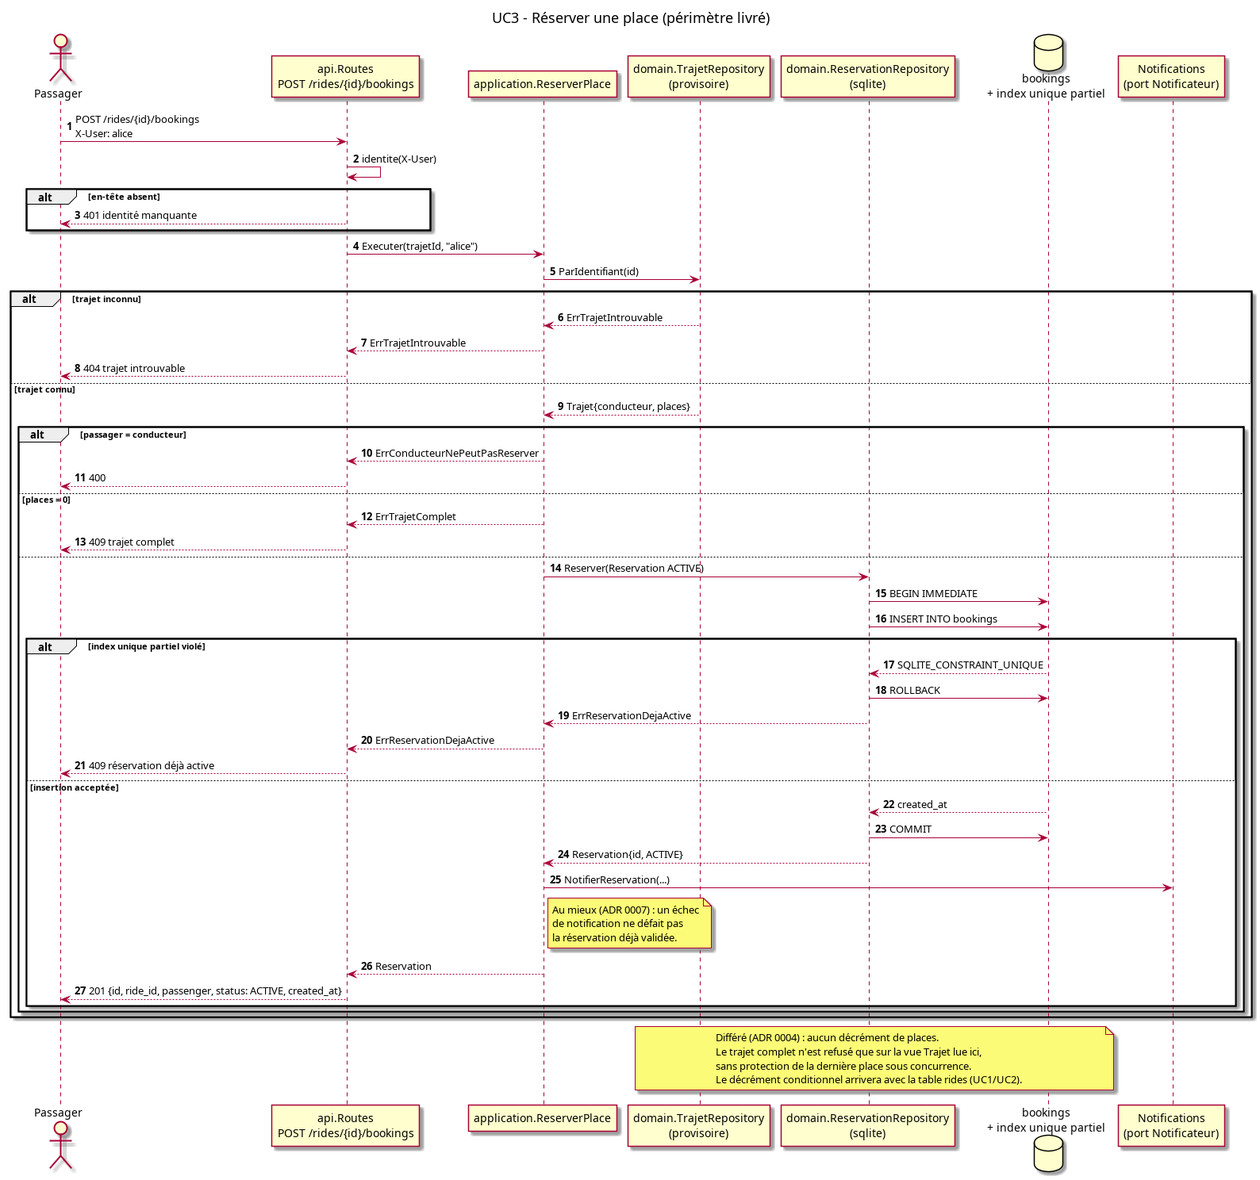
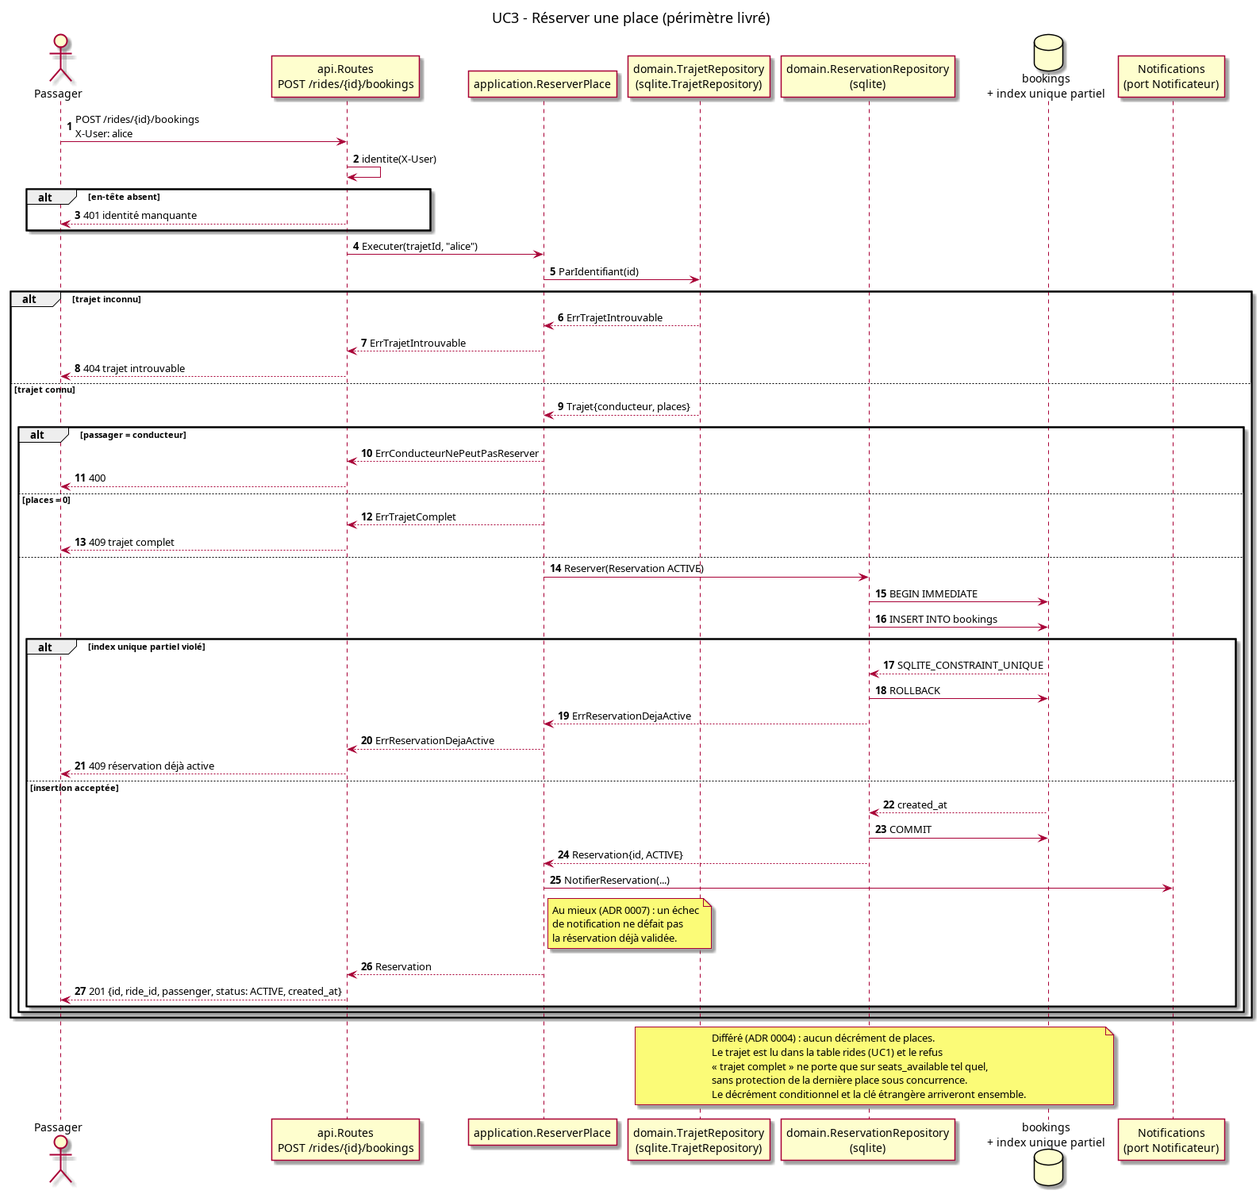
docs(uc1): UC1 livré, place du décrément toujours différée
architecture.md : périmètre, couches, chaînes nominales, ports (TrajetRepository
réel, Horloge), route POST /rides avec sa forme de réponse exacte, table rides,
stratégie de tests, correspondance UC, dette. ADR 0004 : statut et différé
réécrits puisque rides existe. Diagrammes : composants complétés, note de
séquence UC3 mise à jour. README : état des UC.

diff --git a/docs/architecture.md b/docs/architecture.md
@@ -2,13 +2,14 @@
 
 Document d'architecture du système décrit dans [vision.md](vision.md) et [use-case-elaboration.md](use-case-elaboration.md).
 Il décrit uniquement le service Go : l'implémentation Python de UC3 a été retirée du dépôt et n'est plus une
-référence. Seul UC8 (gérer son profil) est implémenté, et les décisions structurantes sont tracées en ADR (§16).
+référence. Trois cas d'utilisation sont implémentés : UC1 (publier un trajet), UC8 (gérer son profil) et UC3 (réserver
+une place), ce dernier sans décrément de places (§15). Les décisions structurantes sont tracées en ADR (§16).
 
 ## 1. Périmètre et objectifs
 
-- **Périmètre fonctionnel :** les 12 cas d'utilisation de la vision. Deux sont livrés : UC8 (gérer son profil) et UC3
-  (réserver une place) dans un périmètre réduit — les réservations sont écrites, mais le compteur de places appartient
-  encore à UC1/UC2 (§15).
+- **Périmètre fonctionnel :** les 12 cas d'utilisation de la vision. Trois sont livrés : UC8 (gérer son profil), UC1
+  (publier un trajet) et UC3 (réserver une place). UC3 reste dans un périmètre réduit : les réservations sont écrites,
+  mais le décrément des places n'existe pas encore (§15).
 - **Objectifs d'architecture :**
   1. isoler les règles métier du transport (HTTP) et de la persistance (SQLite) ;
   2. garder le risque technique du projet — la réservation concurrente — isolé à un seul endroit : l'unicité des
@@ -64,9 +65,9 @@ Dépendances strictement orientées vers l'intérieur : `api` → `application` 
 
 | Couche | Paquet | Responsabilité | Ne connaît pas |
 |---|---|---|---|
-| Domaine | `internal/domain` | entité `Profil`, type `Sexe`, bornes et invariants (`Profil.Valider`), erreurs sentinelles, **déclaration du port** `ProfilRepository` | `net/http`, `database/sql` |
-| Application | `internal/application` | cas d'utilisation UC8 `GererProfil` (`Consulter`, `Enregistrer`), `SaisieProfil`, port secondaire `NormaliseurPhoto` | HTTP, SQL |
-| Infrastructure | `internal/infrastructure/sqlite`, `internal/infrastructure/photos` | adaptateur du port de persistance (schéma, transactions, horodatages) et pipeline d'image | HTTP |
+| Domaine | `internal/domain` | entités `Profil`, `Trajet`, `Reservation`, types énumérés, invariants (`Profil.Valider`, `Trajet.ValiderPublication`, `Reservation.Valider`), erreurs sentinelles, **déclaration des ports** | `net/http`, `database/sql` |
+| Application | `internal/application` | cas d'utilisation UC8 `GererProfil`, UC1 `PublierTrajet`, UC3 `ReserverPlace`, saisies d'entrée, ports secondaires `NormaliseurPhoto`, `Notificateur`, `Horloge` | HTTP, SQL |
+| Infrastructure | `internal/infrastructure/sqlite`, `internal/infrastructure/photos`, `internal/infrastructure/notifications` | adaptateurs des ports (schéma, transactions, horodatages), pipeline d'image, journal de notification | HTTP |
 | Interface | `internal/api` | routage, extraction de l'identité, décodage JSON, correspondance erreur → code HTTP | SQL, règles métier |
 | Composition | `cmd/wasalni/main.go` | racine de composition : ouvre la base, câble le cas d'utilisation et le normaliseur, sert HTTP, arrête proprement | — |
 
@@ -90,10 +91,13 @@ Source : [uml/architecture-components.puml](uml/architecture-components.puml).
 Chaîne nominale d'UC8 : `Routes` (`internal/api`) → `GererProfil` (`internal/application`) → port `ProfilRepository`
 → `sqlite.ProfilRepository` → table `users`. La photo traverse `NormaliseurPhoto` → `photos.Normaliser`.
 
-Chaîne nominale d'UC3 : `Routes` → `ReserverPlace` → port `TrajetRepository` (lecture de la vue `Trajet`) puis port
+Chaîne nominale d'UC1 : `Routes` → `PublierTrajet` → port `TrajetRepository` → `sqlite.TrajetRepository` → table
+`rides`. L'heure courante vient du port `Horloge`, la racine de composition fournissant `horlogeReelle`.
+
+Chaîne nominale d'UC3 : `Routes` → `ReserverPlace` → port `TrajetRepository` (lecture du trajet) puis port
 `ReservationRepository` → `sqlite.ReservationRepository` → table `bookings`, sous l'index unique partiel ; enfin le port
-`Notificateur` → `notifications.Journal`. La racine de composition fournit un adaptateur de trajets **provisoire**, qui
-répond `trajet introuvable` pour tout identifiant et l'annonce au démarrage : la table `rides` n'existe pas encore.
+`Notificateur` → `notifications.Journal`. Les deux cas d'utilisation partagent le même entrepôt de trajets, câblé une
+seule fois dans `cmd/wasalni/main.go`.
 
 Identité : `Routes` → `identite` (`internal/api/identite.go`), qui lit `X-User` et rend `ErrIdentiteManquante` si
 l'en-tête est absent (ADR 0002).
@@ -104,7 +108,8 @@ l'en-tête est absent (ADR 0002).
 |---|---|---|---|
 | `domain.ProfilRepository` | `internal/domain/ports.go` | `Enregistrer(ctx, Profil) (Profil, bool, error)` (le booléen vaut vrai à la création), `ParIdentifiant(ctx, identifiant) (Profil, error)` | `internal/infrastructure/sqlite/profil_repository.go` |
 | `application.NormaliseurPhoto` | `internal/application/gerer_profil.go` | `Normaliser(photoBase64 string) (string, error)` | `internal/infrastructure/photos/pipeline.go` (`Normaliser`), adapté par `normaliseurPhoto` dans `cmd/wasalni/main.go` |
-| `domain.TrajetRepository` | `internal/domain/ports.go` | `ParIdentifiant(ctx, identifiant) (Trajet, error)` | provisoire : `trajetsProvisoires` dans `cmd/wasalni/main.go` (rend `ErrTrajetIntrouvable`) ; la vraie lecture arrive avec UC1/UC2 |
+| `domain.TrajetRepository` | `internal/domain/ports.go` | `Publier(ctx, Trajet) (Trajet, error)` rend le trajet créé, identifiant compris ; `ParIdentifiant(ctx, identifiant) (Trajet, error)` échoue avec `ErrTrajetIntrouvable` | `internal/infrastructure/sqlite/trajet_repository.go` |
+| `application.Horloge` | `internal/application/publier_trajet.go` | `Maintenant() time.Time`, pour que les règles temporelles de UC1 soient testables | `horlogeReelle` dans `cmd/wasalni/main.go` |
 | `domain.ReservationRepository` | `internal/domain/ports.go` | `Reserver(ctx, Reservation) (Reservation, error)` ; échoue avec `ErrReservationDejaActive` si une réservation `ACTIVE` existe pour le couple (trajet, passager). `ParPassager(ctx, passager) ([]Reservation, error)` liste les réservations d'un passager, les deux états compris, de la plus récente à la plus ancienne | `internal/infrastructure/sqlite/reservation_repository.go` |
 | `application.Notificateur` | `internal/application/reserver_place.go` | `NotifierReservation(ctx, Reservation) error`, au mieux (ADR 0007) | `internal/infrastructure/notifications/journal.go` |
 
@@ -126,6 +131,7 @@ Toutes les routes sont construites par `api.Routes` (`internal/api/routes.go`). 
 | `GET` | `/health` | — | — | `200` `{"statut":"ok"}` |
 | `GET` | `/profile` | `X-User` requis | — | `200` profil, `401` identité absente, `404` profil introuvable, `500` erreur inattendue |
 | `PUT` | `/profile` | `X-User` requis | `{name, age, sex?, photo?}` | `201` création, `200` mise à jour, `400` saisie ou image refusée, `401` identité absente, `413` corps trop volumineux, `500` erreur inattendue |
+| `POST` | `/rides` | `X-User` requis | `{origin, destination, departure_time, seats_total, price, cancel_delay_hours}` (`departure` accepté comme alias de `departure_time`) | `201` trajet publié, `400` saisie refusée, `401` identité absente, `413` corps trop volumineux, `500` erreur inattendue |
 | `POST` | `/rides/{id}/bookings` | `X-User` requis | — | `201` réservation `ACTIVE`, `400` conducteur ou trajet invalide, `401` identité absente, `404` trajet inconnu, `409` trajet complet ou réservation déjà active, `500` erreur inattendue |
 
 Corps de requête (`SaisieProfil`) :
@@ -158,7 +164,21 @@ Réservation (`POST /rides/{id}/bookings`) — aucun corps de requête, l'identi
 {"id":"0f9c…","ride_id":"t1","passenger":"alice","status":"ACTIVE","created_at":"2026-11-24T21:15:48Z"}
 ```
 
-Ordre des contrôles : identité (`401`), trajet connu (`404`), trajet exploitable (`400`), passager distinct du
+Publication (`POST /rides`) — réponse `201` :
+
+```json
+{"id":"46d3…","driver_id":"bob","origin":"Lyon","destination":"Grenoble","departure_time":"2026-12-01T08:30:00Z",
+ "seats_total":3,"seats_available":3,"price":12.5,"cancel_delay_hours":2,"status":"PUBLISHED",
+ "created_at":"2026-11-24T21:35:47Z"}
+```
+
+Règles : origine et destination obligatoires et différentes (comparaison insensible à la casse), au moins une place, prix
+positif ou nul, départ dans le futur au format ISO 8601 (un horodatage sans fuseau est lu en UTC), délai d'annulation
+positif ou nul et strictement inférieur au temps restant avant le départ. Le délai vaut 2 h par défaut, les places
+disponibles partent au maximum, le statut est `PUBLISHED`. Un refus rend `400` avec le motif en clair :
+`{"error":"trajet invalide : l'origine et la destination doivent être différentes"}`.
+
+Ordre des contrôles d'une réservation : identité (`401`), trajet connu (`404`), trajet exploitable (`400`), passager distinct du
 conducteur (`400`), place disponible (`409`), puis écriture ; le doublon éventuel est refusé par l'index unique et rend
 `409`. Aucune place n'est décrémentée dans cette version (§15).
 
@@ -169,7 +189,7 @@ rappelle le décrément différé, il ne doit pas être dessiné comme appliqué
 
 ## 9. Modèle de données
 
-Deux tables, avec le DDL réellement appliqué (`internal/infrastructure/sqlite/schema.go`). Celle de UC8 :
+Trois tables, avec le DDL réellement appliqué (`internal/infrastructure/sqlite/schema.go`). Celle de UC8 :
 
 ```sql
 CREATE TABLE IF NOT EXISTS users (
@@ -180,6 +200,24 @@ CREATE TABLE IF NOT EXISTS users (
     photo      TEXT,
     created_at TEXT NOT NULL DEFAULT (strftime('%Y-%m-%dT%H:%M:%SZ', 'now')),
     updated_at TEXT NOT NULL DEFAULT (strftime('%Y-%m-%dT%H:%M:%SZ', 'now'))
+);
+```
+
+Celle de UC1 :
+
+```sql
+CREATE TABLE IF NOT EXISTS rides (
+    id                 TEXT PRIMARY KEY,
+    driver             TEXT NOT NULL,
+    origin             TEXT NOT NULL,
+    destination        TEXT NOT NULL,
+    departure          TEXT NOT NULL,
+    seats_total        INTEGER NOT NULL CHECK (seats_total >= 1),
+    seats_available    INTEGER NOT NULL CHECK (seats_available >= 0 AND seats_available <= seats_total),
+    price              REAL    NOT NULL CHECK (price >= 0),
+    cancel_delay_hours REAL    NOT NULL DEFAULT 2 CHECK (cancel_delay_hours >= 0),
+    status             TEXT    NOT NULL DEFAULT 'PUBLISHED' CHECK (status IN ('PUBLISHED', 'COMPLETED')),
+    created_at         TEXT    NOT NULL DEFAULT (strftime('%Y-%m-%dT%H:%M:%SZ', 'now'))
 );
 ```
 
@@ -211,12 +249,14 @@ Invariants portés par le schéma ou par le domaine :
   versionnée.
 - `bookings.status` est contraint à `ACTIVE` ou `CANCELLED` (ADR 0003) ; l'index partiel `bookings_active_unique`
   interdit deux réservations `ACTIVE` pour le même couple (trajet, passager), y compris sous appels simultanés.
-- `bookings.ride_id` n'a pas de clé étrangère : la table `rides` appartient à UC1/UC2 et n'existe pas encore. C'est une
-  dette explicite (§15), pas un oubli.
-- Une réservation ne stocke pas le prix ni le nombre de places : le compteur de places est différé avec la table `rides`
-  (ADR 0004).
+- `rides.status` est contraint à `PUBLISHED` ou `COMPLETED` : `COMPLETED` attend UC11.
+- `rides.seats_available` démarre à `seats_total` et **ne bouge pas encore** : le décrément à la réservation est différé
+  (ADR 0004, §15). Un test fixe explicitement cette limite et devra être inversé avec le décrément.
+- `bookings.ride_id` n'a pas de clé étrangère vers `rides`, alors que la table existe désormais : la contrainte viendra
+  avec le décrément atomique, dans la même migration logique (issue de suivi de UC3). Sans elle, la base n'empêche pas
+  une réservation orpheline ; le cas d'usage, lui, lit toujours le trajet avant d'écrire.
 
-Les tables des autres UC (trajets, évaluations) n'existent pas encore : elles seront ajoutées avec les cas
+Les tables des autres UC (évaluations, messages) n'existent pas encore : elles seront ajoutées avec les cas
 d'utilisation correspondants (§14).
 
 ### Modèle de classes (périmètre implémenté)
@@ -287,6 +327,13 @@ La table est unique : la fonction `statutHTTP` de `internal/api/http.go`. Le cor
   en-tête, `400` (nom, âge, image illisible), `201` à la création, `200` à la mise à jour, isolation entre deux valeurs de
   `X-User`, `413` au-delà de 10 Mio.
 - **Aucun test ne touche une base réelle** : chaque test crée la sienne et la supprime avec le répertoire temporaire.
+- **Tests d'UC1** : domaine — `ValiderPublication` accepte un trajet complet et refuse douze variantes (conducteur,
+  origine, destination, places incohérentes, prix, délai, départ passé ou à l'instant, statut inconnu) ; cas d'usage —
+  écriture d'un trajet `PUBLISHED` avec places au maximum, délai par défaut ou explicite, alias `departure`, date sans
+  fuseau lue en UTC, huit refus qui n'écrivent rien, erreur de dépôt propagée telle quelle ; adaptateur SQLite — aller-
+  retour `Publier`/`ParIdentifiant`, identifiant inconnu, non-décrément des places après réservation ; HTTP — `401`,
+  cinq `400`, `201` avec la forme exacte de la réponse, puis réservation réelle sur le trajet publié (`201`) et refus du
+  conducteur (`400`).
 - **Tests d'UC3** : cas d'usage avec faux `TrajetRepository`, faux `ReservationRepository` (index unique simulé) et faux
   `Notificateur` — quatre refus, succès, doublon, notification en échec qui ne défait pas la réservation ; adaptateur
   SQLite sur base temporaire — insertion, doublon refusé sans seconde ligne, index partiel qui laisse passer un autre
@@ -320,21 +367,22 @@ curl -s -X PUT -H 'X-User: amine' -H 'Content-Type: application/json' \
 |---|---|---|---|
 | UC8 | `GererProfil` (`internal/application/gerer_profil.go`) | `ProfilRepository`, `NormaliseurPhoto` | implémenté |
 | UC13 | `identite` (`internal/api/identite.go`) : lecture de `X-User` | — | partiel : l'identité est lue, pas vérifiée (système externe) |
-| UC3 | `ReserverPlace` (`internal/application/reserver_place.go`) | `TrajetRepository` (provisoire), `ReservationRepository`, `Notificateur` | implémenté, périmètre réduit : pas de décrément de places (ADR 0004, §15) |
+| UC1 | `PublierTrajet` (`internal/application/publier_trajet.go`) | `TrajetRepository` (`Publier`), `Horloge` | implémenté : `POST /rides` (201/400/401) |
+| UC3 | `ReserverPlace` (`internal/application/reserver_place.go`) | `TrajetRepository`, `ReservationRepository`, `Notificateur` | implémenté, périmètre réduit : pas de décrément de places (ADR 0004, §15) |
 | UC12 | `Notificateur` → `notifications.Journal` | — | partiel : la notification existe côté service, le système externe non (ADR 0007) |
 | UC1, UC2, UC5, UC6, UC7, UC9, UC10, UC11 | — | — | non implémentés |
 
 ## 15. Dette et limites connues
 
-- **Pas de compteur de places.** UC3 écrit des réservations mais ne décrémente rien : la table `rides` appartient à
-  UC1/UC2 (#5, #10). Conséquence directe : le refus « trajet complet » s'appuie sur la vue `Trajet` et deux réservations
-  simultanées sur la dernière place peuvent aboutir. Le décrément conditionnel et son test de concurrence sont la dette
-  suivie par l'issue de suivi de #12 ; le contrat du port `ReservationRepository` ne changera pas (ADR 0004).
-- **Adaptateur de trajets provisoire.** `cmd/wasalni/main.go` câble un `TrajetRepository` qui répond `trajet introuvable`
-  pour tout identifiant : `POST /rides/{id}/bookings` renvoie donc `404` en service réel tant que la table `rides`
-  n'existe pas. Le démarrage écrit un avertissement explicite, et les chemins `201`/`400`/`409` sont prouvés en test.
-- **Pas de clé étrangère sur `bookings.ride_id`.** Elle arrivera avec la table référencée ; l'ordre d'écriture n'est donc
-  pas garanti par la base aujourd'hui.
+- **Pas de décrément de places.** La table `rides` existe depuis UC1, mais `seats_available` reste à sa valeur de
+  publication : UC3 écrit des réservations sans toucher au compteur. Conséquence directe : le refus « trajet complet »
+  s'appuie sur la valeur lue et deux réservations simultanées sur la dernière place peuvent aboutir. Le décrément
+  conditionnel et son test de concurrence sont la dette suivie par l'issue de suivi de #12 ; le contrat du port
+  `ReservationRepository` ne changera pas (ADR 0004).
+- **Pas de clé étrangère sur `bookings.ride_id`.** Elle arrivera avec le décrément ; l'ordre d'écriture n'est donc pas
+  garanti par la base aujourd'hui.
+- **UC2 (consulter un trajet) n'a pas d'endpoint.** Le port `ParIdentifiant` existe et sert UC3, mais aucune route ne rend
+  un trajet publié ; c'est la prochaine brique naturelle.
 - **Photos stockées en base.** `users.photo` contient le PNG en base64 : environ un tiers de surcoût par rapport au
   binaire, et l'image entière est relue et retransmise à chaque `GET /profile`. Acceptable pour une photo par profil, à
   revoir quand UC7 lira le profil du conducteur.
@@ -348,8 +396,8 @@ curl -s -X PUT -H 'X-User: amine' -H 'Content-Type: application/json' \
   UC3 ajoutera ses tables.
 - **Coût du pipeline non borné en pixels.** La limite de 10 Mio borne l'entrée, pas le nombre de pixels décodés ni le coût
   du box filter. Une image très grande reste coûteuse en mémoire avant réduction.
-- **Deux UC couverts, deux partiellement.** UC8 est complet ; UC3 l'est sauf le compteur de places ; UC12 n'a qu'un
-  adaptateur de journal. Les autres cas d'utilisation n'ont ni code ni test ; leur place est réservée dans
+- **Trois UC couverts, deux partiellement.** UC8 et UC1 sont complets ; UC3 l'est sauf le compteur de places ; UC12 n'a
+  qu'un adaptateur de journal. Les autres cas d'utilisation n'ont ni code ni test ; leur place est réservée dans
   l'architecture (§14), pas dans le schéma.
 
 ## 16. Décisions (ADR)

diff --git a/docs/adr/0004-concurrence-sqlite.md b/docs/adr/0004-concurrence-sqlite.md
@@ -1,20 +1,20 @@
 # ADR 0004 - Concurrence : unicité en base aujourd'hui, décrément atomique différé
 
-- **Statut :** partiellement appliqué — la garantie anti-doublon est en place ; le décrément atomique et son test de
-  concurrence restent à écrire dès que la table `rides` existera (#5, #10)
+- **Statut :** partiellement appliqué — la garantie anti-doublon est en place et la table `rides` existe depuis UC1 ; le
+  décrément atomique, la clé étrangère de `bookings` et le test de concurrence restent à écrire
 - **Date :** 2026-11-24 (révision)
 
 ## Contexte
 
 La réservation concurrente est le risque technique n°1 du projet : plusieurs passagers visent la dernière place au même
-instant. UC3 est livré dans un périmètre réduit : la table `rides` appartient à UC1/UC2, donc le service écrit des
+instant. UC3 est livré dans un périmètre réduit : la table `rides` existe depuis UC1, mais le service écrit des
 réservations sans tenir de compteur de places. Deux courses différentes coexistent alors :
 
 1. **le doublon** — le même passager réserve deux fois le même trajet ;
 2. **la dernière place** — deux passagers différents la prennent en même temps.
 
-La première est arbitrable dès maintenant par la base ; la seconde exige une colonne `seats_available` que le service ne
-possède pas.
+La première est arbitrable dès maintenant par la base ; la seconde exige de décrémenter `rides.seats_available` dans la
+même transaction que l'insertion, ce qui n'est pas encore fait.
 
 ## Décision
 
@@ -30,13 +30,14 @@ possède pas.
 
 **Différé, avec sa raison :**
 
-- Sans table `rides`, il n'y a pas de `seats_available` : le refus « trajet complet » vient de la vue `Trajet` lue par
-  `ReserverPlace`, et ne protège donc pas la dernière place. Deux requêtes simultanées sur la dernière place peuvent
-  aboutir aujourd'hui.
-- Le test de concurrence ne peut pas être écrit sans compteur : il n'y aurait rien à départager.
-- À la livraison de `rides` (#5, #10), la suite est connue et courte : `UPDATE rides SET seats_available =
-  seats_available - 1 WHERE id = ? AND seats_available > 0` dans la **même** transaction immédiate que l'insertion,
-  zéro ligne modifiée ⇒ `domain.ErrTrajetComplet`, puis le test à trois places et trois succès.
+- `rides.seats_available` est écrit à la publication et ne bouge plus : le refus « trajet complet » vient de la valeur
+  lue par `ReserverPlace`, et ne protège donc pas la dernière place. Deux requêtes simultanées sur la dernière place
+  peuvent aboutir aujourd'hui. Un test fixe cette limite et devra être inversé.
+- `bookings.ride_id` n'a pas encore de clé étrangère vers `rides`.
+- La suite est connue et courte : `UPDATE rides SET seats_available = seats_available - 1 WHERE id = ? AND
+  seats_available > 0` dans la **même** transaction immédiate que l'insertion, zéro ligne modifiée ⇒
+  `domain.ErrTrajetComplet`, ajout de la clé étrangère, puis le test à trois places et trois succès. Le tout appartient à
+  l'issue de suivi de #12, pas à un nouveau découpage.
 
 ## Conséquences
 
@@ -44,10 +45,11 @@ possède pas.
   simultanés ; la dernière place reste en revanche exposée à la surréservation.
 - Le port `domain.ReservationRepository` porte déjà le contrat (« échoue avec `ErrReservationDejaActive` »), donc
   l'adaptateur futur n'obligera pas à modifier le cas d'usage.
-- **Négatif assumé :** deux sources de vérité pour « complet » (la vue `Trajet`) et « doublon » (l'index) tant que
-  `rides` n'existe pas. C'est la dette suivie par l'issue de suivi de #12.
+- **Négatif assumé :** deux autorités pour « complet » (la valeur lue dans `rides`) et « doublon » (l'index) tant que le
+  décrément n'existe pas. C'est la dette suivie par l'issue de suivi de #12.
 - **Preuve actuelle :** `internal/infrastructure/sqlite/reservation_repository_test.go` (doublon refusé, aucune seconde
-  ligne écrite ; index partiel qui laisse passer un autre passager) et `internal/api/reservations_test.go` (`409`).
+  ligne écrite ; index partiel qui laisse passer un autre passager), `internal/api/reservations_test.go` (`409`) et
+  `internal/infrastructure/sqlite/trajet_repository_test.go` (les places ne bougent pas après réservation).
 
 ## Alternatives écartées
 

diff --git a/README.md b/README.md
@@ -4,9 +4,10 @@
 **Système choisi :** plateforme de covoiturage interurbain (API web).
 **Nombre de UC :** 12, dont un à risque technique (réservation concurrente : UC3).
 **Stack :** Go + SQLite (bibliothèque standard et `modernc.org/sqlite`, sans cgo).
-**État actuel :** UC8 (gérer son profil) est complet ; UC3 (réserver une place) est implémenté sans compteur de places —
-la table `rides` appartient à UC1/UC2, donc le décrément atomique et son test de concurrence restent à faire, comme le
-note [docs/architecture.md](docs/architecture.md) §15. Les tests se lancent avec `go test ./...`.
+**État actuel :** UC8 (gérer son profil) et UC1 (publier un trajet) sont complets ; UC3 (réserver une place) est
+implémenté sans décrément de places — la table `rides` existe, mais son compteur ne bouge pas encore, donc le décrément
+atomique et son test de concurrence restent à faire, comme le note [docs/architecture.md](docs/architecture.md) §15. Les
+tests se lancent avec `go test ./...`.
 
 Documents de référence : [docs/vision.md](docs/vision.md) (vision, acteurs, UC, priorisation, plan),
 [docs/use-case-elaboration.md](docs/use-case-elaboration.md) (fiches détaillées, diagramme de cas d'utilisation) et
